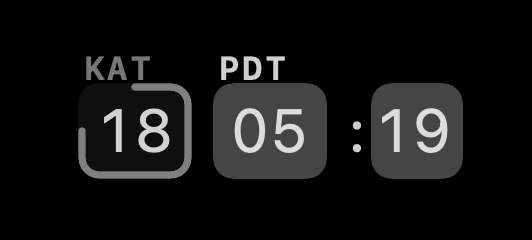
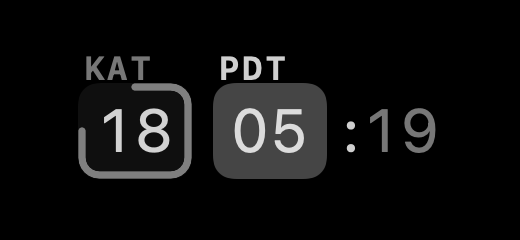
feat(glyph): signal the minute swap with secondary-tone ink instead of a card

diff --git a/doubletime/Glyph/TrailingMinute.swift b/doubletime/Glyph/TrailingMinute.swift
@@ -6,12 +6,12 @@
 import SwiftUI
 
 /// The trailing `:mm` — the PRIMARY minute, except while the status item is
-/// hovered over a sub-hour pair (`carded`), when the digits roll, odometer
-/// style, to the SECONDARY minute over a chip-fill card. The card fades in,
-/// sits behind the digits ONLY (never the colon), and persists for the whole
-/// hover: it is the "you're reading the other zone" cue, not just a transition
-/// effect. The colon can hide every other second (opt-in blink) at opacity 0
-/// so the glyph width never changes.
+/// hovered over a sub-hour pair (`swapped`), when the digits roll, odometer
+/// style, to the SECONDARY minute and recolor to the secondary tone
+/// (DesignTokens.minuteSwapInk). The ink IS the swap cue — no card, so the
+/// colon needs no clearance and the glyph keeps its canon spacing. The colon
+/// stays plain primary ink (a separator is neutral chrome) and can hide every
+/// other second (opt-in blink) at opacity 0 so the glyph width never changes.
 ///
 /// The digits are ONE always-present Text swapped via contentTransition —
 /// deliberately not conditional view identities with enter/exit transitions:
@@ -23,27 +23,27 @@ struct TrailingMinute: View {
     let primaryMinute: String
     let secondaryMinute: String
     var blink: Bool = false
-    /// True while showing the secondary minute (rolls the digits, fades the card in).
-    var carded: Bool = false
+    /// True while showing the secondary minute (rolls and recolors the digits).
+    var swapped: Bool = false
     /// Roll direction: true when the secondary zone is ahead of the primary
     /// (anchoredSweep clockwise) — a later time rolls like an advancing
     /// counter. numericText's countsDown is the inverse notion.
     ///
-    /// countsDown is keyed on `carded`, not fixed, so hover-out retraces the
+    /// countsDown is keyed on `swapped`, not fixed, so hover-out retraces the
     /// hover-in roll instead of repeating it: the transition reads the
     /// modifier's value in the same transaction as the string change, so
-    /// flipping which value it computes when `carded` flips reverses the
+    /// flipping which value it computes when `swapped` flips reverses the
     /// perceived direction on the way back.
     var rollsUp: Bool = true
-    /// The secondary zone's period, hue-pairing the card with the secondary
-    /// cell in 12-hour mode; nil in 24-hour mode (neutral fill).
-    var cardPeriod: ClockModel.Period? = nil
+    /// The secondary zone's period, hue-tinting the swapped ink in 12-hour
+    /// mode; nil in 24-hour mode (dimmed neutral ink instead).
+    var secondaryPeriod: ClockModel.Period? = nil
 
     @Environment(\.colorScheme) private var colorScheme
     @Environment(\.accessibilityReduceMotion) private var reduceMotion
 
     var body: some View {
-        HStack(spacing: DesignTokens.minuteColonGap) {
+        HStack(spacing: 0) {
             colon
             digits
         }
@@ -53,34 +53,23 @@ struct TrailingMinute: View {
         .animation(
             .easeInOut(duration: reduceMotion ? DesignTokens.minuteCrossfadeDuration
                                               : DesignTokens.minuteRollDuration),
-            value: carded
+            value: swapped
         )
     }
 
     /// numericText rolls only the digits that actually change (a ±30 offset
     /// rolls just the tens digit). A minute tick mid-hover changes the string
-    /// with no animated transaction (`.animation` above is keyed to `carded`,
+    /// with no animated transaction (`.animation` above is keyed to `swapped`,
     /// not to the minute values), so it snaps — the same ordinary per-minute
-    /// snap as when not hovered.
+    /// snap as when not hovered. The ink recolors in the same transaction as
+    /// the roll, so digits and tone arrive together.
     private var digits: some View {
-        Text(carded ? secondaryMinute : primaryMinute)
+        Text(swapped ? secondaryMinute : primaryMinute)
             .contentTransition(reduceMotion ? .opacity
-                : .numericText(countsDown: carded ? !rollsUp : rollsUp))
-            .background { card.opacity(carded ? 1 : 0) }
-    }
-
-    /// The chip riding under the digits. Drawn as a background so it never
-    /// affects layout: it pins to the hour cells' height and outsets past the
-    /// digit box purely visually. It uses the PRIMARY fill strength (the
-    /// secondary tier is too faint to read as a cue) with the SECONDARY
-    /// period's hue, visually pairing the card with the cell whose minute it
-    /// shows.
-    private var card: some View {
-        RoundedRectangle(cornerRadius: DesignTokens.cellCornerRadius)
-            .fill(DesignTokens.chipFill(isPrimary: true, period: cardPeriod, colorScheme: colorScheme))
-            .frame(height: DesignTokens.cellSize.height)
-            .padding(.leading, -DesignTokens.minuteCardLeadingOutset)
-            .padding(.trailing, -DesignTokens.minuteCardTrailingOutset)
+                : .numericText(countsDown: swapped ? !rollsUp : rollsUp))
+            .foregroundStyle(swapped
+                ? DesignTokens.minuteSwapInk(period: secondaryPeriod, colorScheme: colorScheme)
+                : Color.primary.opacity(DesignTokens.inkOpacity))
     }
 
     /// When blinking, ONLY the colon runs a per-second timeline (the rest of the

diff --git a/doubletime/DesignSystem/DesignTokens.swift b/doubletime/DesignSystem/DesignTokens.swift
@@ -53,26 +53,8 @@ enum DesignTokens {
     static let statusItemGlyphNudge: CGFloat = 1.75
     /// Outer horizontal padding around the whole glyph.
     static let glyphHorizontalPadding: CGFloat = 1
-    /// Leading offset of the trailing `:mm`. Canon specifies marginLeft -1 (a
-    /// snug colon directly against its digits), but the hover feature opened a
-    /// minuteColonGap between colon and digits — keeping the -1 left the colon
-    /// equidistant from the primary cell and its own digits, reading as
-    /// orphaned. 0 restores the proportion: cell→colon gets the full
-    /// glyphSpacing rhythm, colon→digits stays the tighter pair. A deliberate
-    /// deviation from canon, forced by the gap.
-    static let trailingMinuteLeadingOffset: CGFloat = 0
-    /// Static gap between the colon and the minute digits. Non-zero so the
-    /// hovered card's leading edge clears the colon ink (the card may not
-    /// touch the colon — it marks the DIGITS as swapped); at 10pt this reads
-    /// as ordinary tracking when idle.
-    static let minuteColonGap: CGFloat = 1
-    /// Outsets of the hovered minute's card past the digits' text box. Drawn
-    /// as a background (never layout) so the glyph width — and therefore the
-    /// status item length — cannot change on hover. Asymmetric: the leading
-    /// side stays shy of the colon (see minuteColonGap), the trailing side
-    /// breathes like the hour cells.
-    static let minuteCardLeadingOutset: CGFloat = 0.5
-    static let minuteCardTrailingOutset: CGFloat = 1.5
+    /// Design: the trailing `:mm` carries an extra leading offset (marginLeft -1).
+    static let trailingMinuteLeadingOffset: CGFloat = -1
     /// Full duration of the trailing-minute roll (outgoing digits and incoming
     /// digits move together, reading as one continuous ribbon). Also paces the
     /// settings-chip crossfade so both surfaces feel like one mechanism.
@@ -163,13 +145,32 @@ enum DesignTokens {
         return hueChipFill(isPrimary: isPrimary, period: period, colorScheme: colorScheme)
     }
 
+    /// Ink for the trailing minute while it shows the SECONDARY zone (hover).
+    /// The swap state is carried by the ink itself — no card: in 24-hour mode
+    /// the digits dim to the secondary label's channel (the design's one
+    /// "belongs to the other zone" treatment), in 12-hour mode they take the
+    /// secondary period's hue at full ink strength (the sanctioned hue
+    /// exception). The idle minute always uses plain primary ink.
+    static func minuteSwapInk(period: ClockModel.Period?, colorScheme: ColorScheme) -> Color {
+        guard let period else {
+            return Color.primary.opacity(secondaryLabelOpacity)
+        }
+        let rgb = periodHue(period, light: colorScheme == .light)
+        return Color(red: rgb.0 / 255, green: rgb.1 / 255, blue: rgb.2 / 255, opacity: inkOpacity)
+    }
+
+    /// The single source for the 12-hour hues (warm amber = AM, cool indigo =
+    /// PM), shared by the chip fills and the hovered minute's swap ink.
+    private static func periodHue(_ period: ClockModel.Period, light: Bool) -> (Double, Double, Double) {
+        switch period {
+        case .am: light ? (228, 148, 12) : (255, 209, 128)
+        case .pm: light ? (72, 96, 224) : (138, 160, 255)
+        }
+    }
+
     private static func hueChipFill(isPrimary: Bool, period: ClockModel.Period, colorScheme: ColorScheme) -> Color {
         let light = colorScheme == .light
-        let rgb: (Double, Double, Double)
-        switch period {
-        case .am: rgb = light ? (228, 148, 12) : (255, 209, 128)
-        case .pm: rgb = light ? (72, 96, 224) : (138, 160, 255)
-        }
+        let rgb = periodHue(period, light: light)
         let alpha: Double
         switch (isPrimary, period, light) {
         case (true, .am, false): alpha = 0.40

diff --git a/doubletime/Glyph/TimeGlyph.swift b/doubletime/Glyph/TimeGlyph.swift
@@ -8,7 +8,7 @@ import SwiftUI
 /// The menu bar glyph: [secondary HourCell][primary HourCell][trailing :mm].
 ///
 /// The trailing `:mm` is the primary minute; while `hovered` over a sub-hour
-/// pair it rolls to the SECONDARY minute on a chip-fill card (see
+/// pair it rolls to the SECONDARY minute in the secondary tone's ink (see
 /// TrailingMinute) — gated on the same predicate that draws the indicator, so
 /// whole-hour pairs make hover a no-op. The primary cell shows no indicator;
 /// the secondary cell shows an arc/segmented indicator encoding the signed
@@ -49,8 +49,8 @@ struct TimeGlyph: View {
             HourCell(label: primaryLabel, hour: primaryHour,
                      fraction: 0, tone: .primary, period: primaryPeriod)
             TrailingMinute(primaryMinute: primaryMinute, secondaryMinute: secondaryMinute,
-                           blink: blinkColon, carded: showsSecondaryMinute,
-                           rollsUp: sweep.clockwise, cardPeriod: secondaryPeriod)
+                           blink: blinkColon, swapped: showsSecondaryMinute,
+                           rollsUp: sweep.clockwise, secondaryPeriod: secondaryPeriod)
                 .padding(.leading, DesignTokens.trailingMinuteLeadingOffset)
         }
         .padding(.horizontal, DesignTokens.glyphHorizontalPadding)

diff --git a/doubletime/Settings/OptionCard.swift b/doubletime/Settings/OptionCard.swift
@@ -94,8 +94,8 @@ struct OptionCard: View {
                 // Two pixel-true stills, crossfaded: the menubar's live roll
                 // can't play inside a rasterized chip, and fading between
                 // states that differ only in the minute means only the digits
-                // and card appear to change. The unhovered still stays opaque
-                // underneath so shared pixels never dip mid-fade.
+                // (and their swap tint) appear to change. The unhovered still
+                // stays opaque underneath so shared pixels never dip mid-fade.
                 ZStack {
                     chip(hovered: false)
                     chip(hovered: true)

diff --git a/doubletimeTests/doubletimeTests.swift b/doubletimeTests/doubletimeTests.swift
@@ -248,7 +248,7 @@ struct doubletimeTests {
         #expect(try render(hovered: false) == render(hovered: true))
     }
 
-    /// The hovered card obeys the same zero-overflow rule as the rest of the
+    /// The hovered state obeys the same zero-overflow rule as the rest of the
     /// ensemble inside the fixed 22pt strip (macOS clips status items).
     @Test @MainActor func hoveredEnsembleFitsInsideStatusStrip() throws {
         let scan = try RasterScan(of: hoverGlyph(hovered: true).statusItemStrip())

diff --git a/docs/superpowers/plans/2026-07-19-hover-secondary-minute.md b/docs/superpowers/plans/2026-07-19-hover-secondary-minute.md
@@ -1,6 +1,6 @@
 # Hover: Secondary-Minute Flip Implementation Plan
 
-> **SUPERSEDED IN PART:** shipped as a `.contentTransition(.numericText)` directional roll with the card behind the digits only — not the Task-1 flip. See `TrailingMinute.swift` for the final mechanism and rationale (replica-window rendering). The flip specs in Tasks 1/4/5 are historical.
+> **SUPERSEDED IN PART:** shipped as a `.contentTransition(.numericText)` directional roll with the swap signaled by recolored digit ink (`DesignTokens.minuteSwapInk`) — no card, and not the Task-1 flip. See `TrailingMinute.swift` for the final mechanism and rationale (replica-window rendering). The flip/card specs in Tasks 1/4/5 are historical.
 
 > **For agentic workers:** REQUIRED SUB-SKILL: Use superpowers:subagent-driven-development (recommended) or superpowers:executing-plans to implement this plan task-by-task. Steps use checkbox (`- [ ]`) syntax for tracking.
 

diff --git a/README.md b/README.md
@@ -9,7 +9,7 @@ A macOS menu bar clock that shows two time zones side by side.
 One cell per zone, plus the primary minute. A thin ring on the secondary cell encodes the sub-hour offset, so half-hour zones like Kolkata read correctly.
 
 <p align="center">
-  <img src="docs/menubar-hover.png" width="261" alt="Hovering rolls the minute to the secondary zone (card marks the swap)">
+  <img src="docs/menubar-hover.png" width="261" alt="Hovering rolls the minute to the secondary zone (tinted ink marks the swap)">
 </p>
 
 The name and the itch both come from [One Clock](https://elaworkshop.github.io/oneclock).
